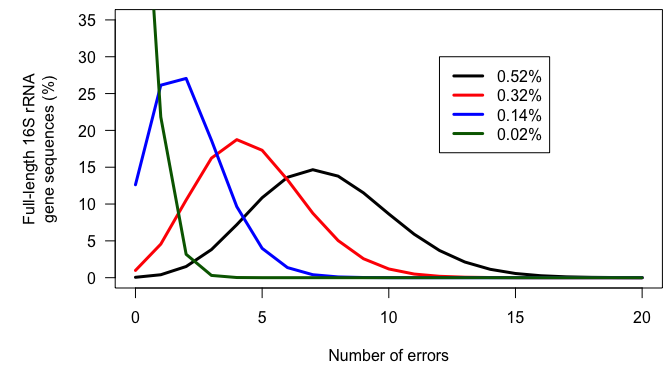
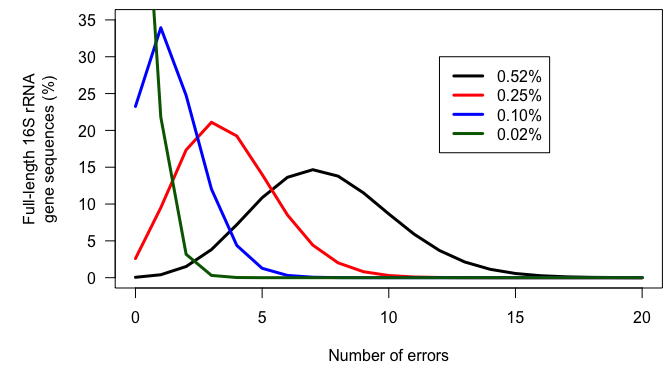
Update error rates for figure 5

Changed region(s): [[0.1875, 0.0625, 0.6562, 0.7188], [0.75, 0.2188, 0.7812, 0.3125], [0.1875, 0.375, 0.2188, 0.4688]]

diff --git a/PacBioManuscript.md b/PacBioManuscript.md
@@ -1,7 +1,6 @@
 
 ### ToDo:
 * Finish Discussion
-* Add data for Table 1
 * Insert references
 * Abstract
 
@@ -446,12 +445,11 @@ sequences to have no errors. In fact, 95% of the reads would have at least
 3 errors and 50% of the
 reads would have at least 
 8 errors. If the error
-rate from the pre-clustered data
-(0.32%) were used, then 95% of
+rate could be dropped to 0.25%, then 95% of
 the reads would have at least 
-2 errors and 50% of the
+1 errors and 50% of the
 reads would have at least 
-5 errors. If it were
+4 errors. If it were
 posible to replicate the low error rates we have previously obsereved using the
 454 and Illumina MiSeq platforms, which was 0.02%, then we would expect 
 74.1% of the sequences to have no errors.
@@ -461,7 +459,6 @@ does not appear that the PacBio platform can provide the data of sufficient
 quality to fill the niche of generating reference sequences.
 
 
-### Remaining outline...
 
 * Classification is dependent on quality of sequence data, length of the data, and
 the quality of the database (1 paragraph)
@@ -559,13 +556,11 @@ information.
 
 **Figure 5. The percentage of V1-V9 sequences that were predicted to have
 between 0 and 20 errors as a function of the error rate of the sequences.** The 
-error rates were selected because they represented the error rate for the V1-V9
-sequences before (0.52%) and
-after (0.32%) the
-pre-clustering step, the lowest observed error rate we observed (V4:
-0.14%) and the error rate we 
-observed previously using the 454 and MiSeq sequencing platforms. The predicted
-number of errors was assumed to follow a binomial distribution.
+highest error rate, 0.52%,
+corresponds to what was observed before the pre-clustering step
+The smalles error rate (0.02%) corresponds to our previous observations using
+the 454 and MiSeq sequencing platforms. The predicted number of errors was
+assumed to follow a binomial distribution.
 
 
 
